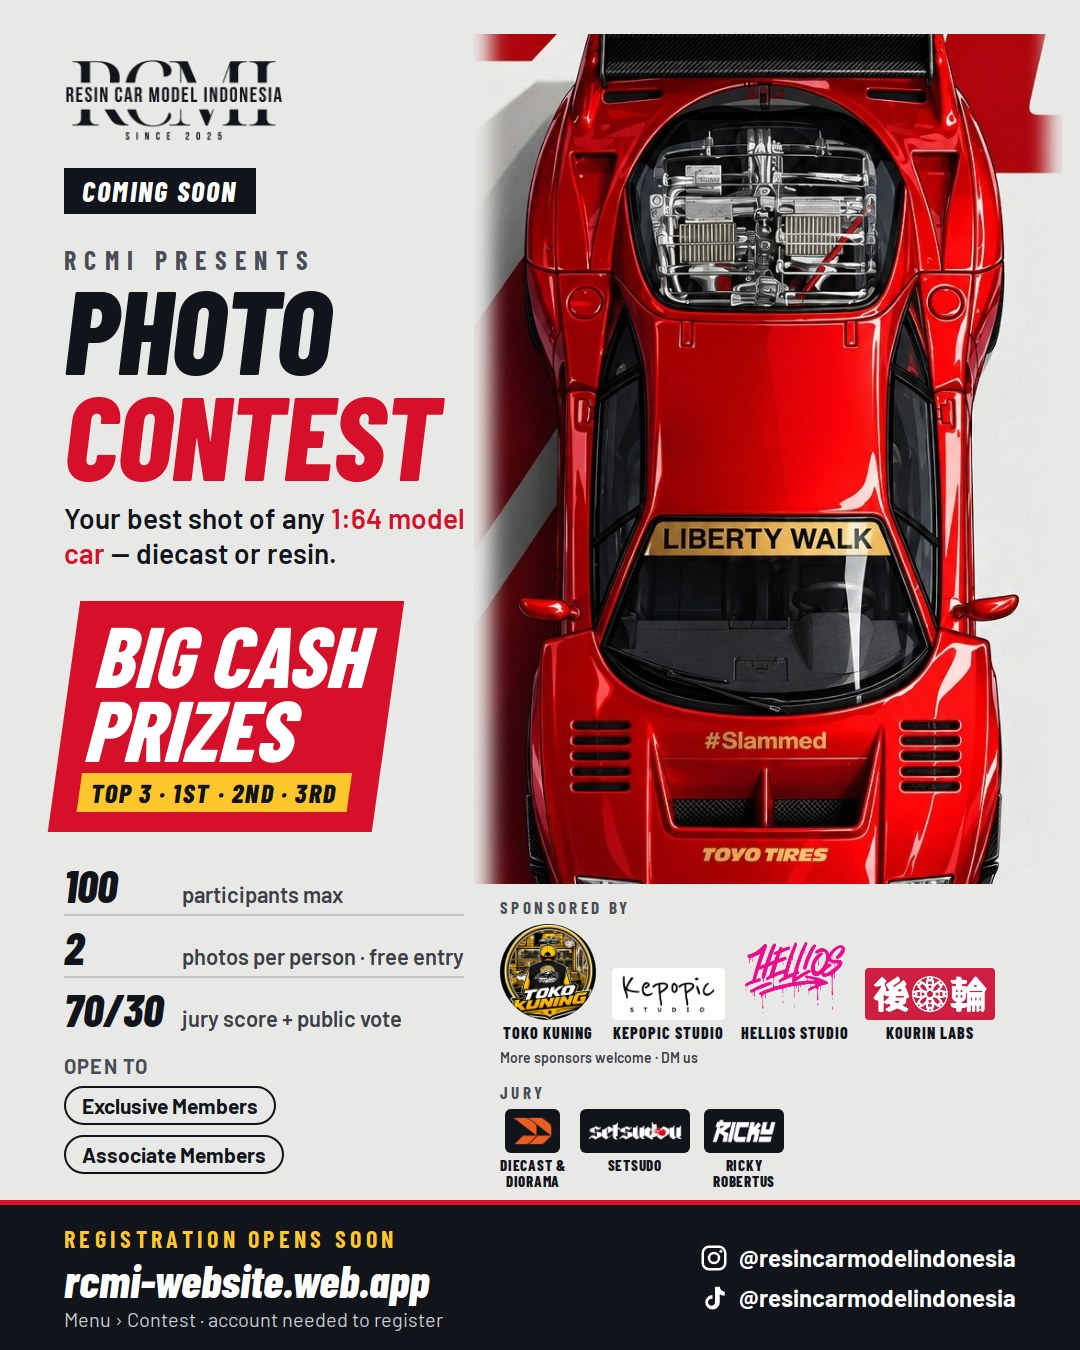
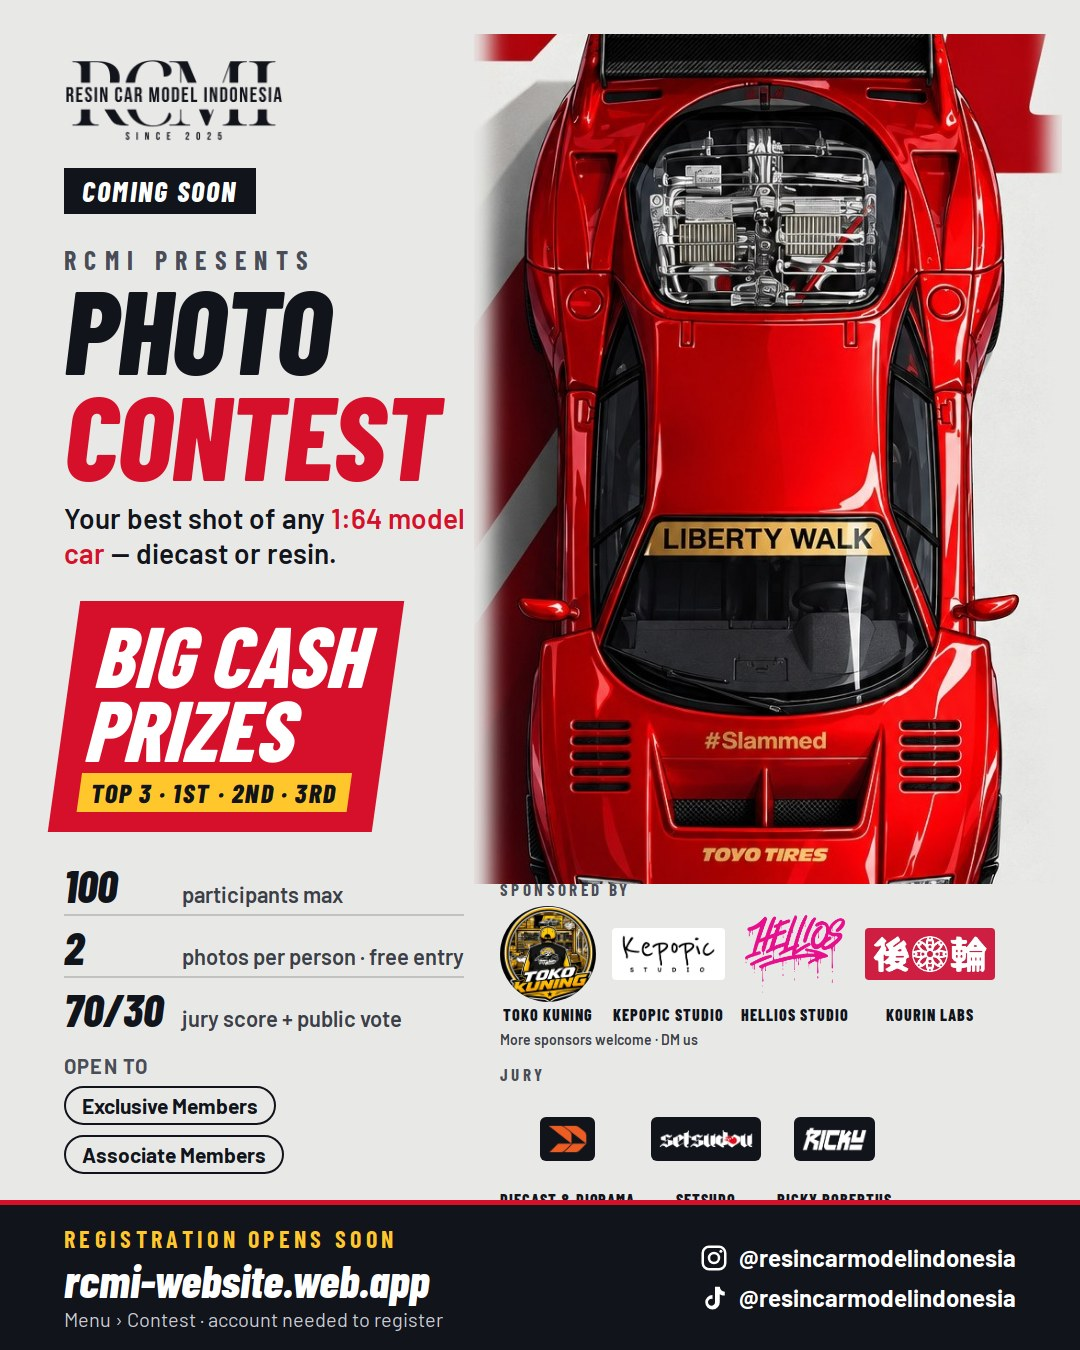
Contest posters (rendered)

Changed region(s): [[0.4583, 0.6533, 0.9472, 0.9022]]

diff --git a/public/js/app.js b/public/js/app.js
@@ -8,12 +8,12 @@ import {
   orderBy, limit, getDocs, onSnapshot, serverTimestamp, runTransaction, Timestamp, writeBatch,
   startAfter, arrayUnion, arrayRemove, getCountFromServer
 } from "https://www.gstatic.com/firebasejs/11.0.2/firebase-firestore.js";
-import { firebaseConfig, uploadUrl } from "./config.js?v=1792811260";
-import { t, getLang, setLang, applyStatic } from "./i18n.js?v=1792811260";
-import { GALLERY } from "./gallery-data.js?v=1792811260";
-import { SEED_EVENTS } from "./seed-events.js?v=1792811260";
-import { parseLedgerCSV, parseLedgerTable, buildPL, balanceIssues } from "./finance.js?v=1792811260";
-import { parseMemberSheets, phoneKey as sheetPhoneKey } from "./members-sync.js?v=1792811260";
+import { firebaseConfig, uploadUrl } from "./config.js?v=1792811478";
+import { t, getLang, setLang, applyStatic } from "./i18n.js?v=1792811478";
+import { GALLERY } from "./gallery-data.js?v=1792811478";
+import { SEED_EVENTS } from "./seed-events.js?v=1792811478";
+import { parseLedgerCSV, parseLedgerTable, buildPL, balanceIssues } from "./finance.js?v=1792811478";
+import { parseMemberSheets, phoneKey as sheetPhoneKey } from "./members-sync.js?v=1792811478";
 
 /* ---------------- helpers ---------------- */
 const $ = (s, r = document) => r.querySelector(s);
@@ -4271,7 +4271,7 @@ $("#btn-install-3")?.addEventListener("click", () => installApp());
    Flow: admin creates (draft) → publishes: registration open (account needed; register, then submit 1 photo)
    → voting (everyone signed in: 1 vote; jury scores blind on 4 criteria) → judging (jury only) → admin announces winners. */
 const CT_STEPS = ["open", "voting", "judging", "closed"];
-const POSTER_V = "b172fa3d";   // changed by tools/posters/render.mjs so phones fetch the new poster instead of an old cached copy
+const POSTER_V = "d110ac47";   // changed by tools/posters/render.mjs so phones fetch the new poster instead of an old cached copy
 const CT_POSTERS = ["r32", "f40"];
 // Contest sponsors in display order (logos in public/img/sponsors/) and jury (logos in public/img/jury/).
 const CT_SPONSORS = [{ name: "Toko Kuning", logo: "/img/sponsors/toko-kuning.jpg", round: true }, { name: "Kepopic Studio", logo: "/img/sponsors/kepopic-studio.jpg" }, { name: "Hellios Studio", logo: "/img/sponsors/hellios-studio.png" }, { name: "Kourin Labs", logo: "/img/sponsors/kourin-labs.jpg" }];

diff --git a/public/index.html b/public/index.html
@@ -9,7 +9,7 @@
   <link rel="preconnect" href="https://fonts.googleapis.com">
   <link rel="preconnect" href="https://fonts.gstatic.com" crossorigin>
   <link href="https://fonts.googleapis.com/css2?family=Barlow+Condensed:ital,wght@0,600;0,700;0,800;1,600;1,700;1,800&family=Barlow:wght@400;500;600;700&family=Noto+Serif:wght@700&display=swap" rel="stylesheet">
-  <link rel="stylesheet" href="/css/style.css?v=1792811260">
+  <link rel="stylesheet" href="/css/style.css?v=1792811478">
   <link rel="icon" type="image/png" href="/img/icon-64.png">
   <link rel="apple-touch-icon" href="/img/icon-192.png">
   <link rel="manifest" href="/manifest.webmanifest">
@@ -616,6 +616,6 @@
 
   <div class="toast" id="toast" role="status" aria-live="polite"></div>
 
-  <script type="module" src="/js/app.js?v=1792811260"></script>
+  <script type="module" src="/js/app.js?v=1792811478"></script>
 </body>
 </html>
